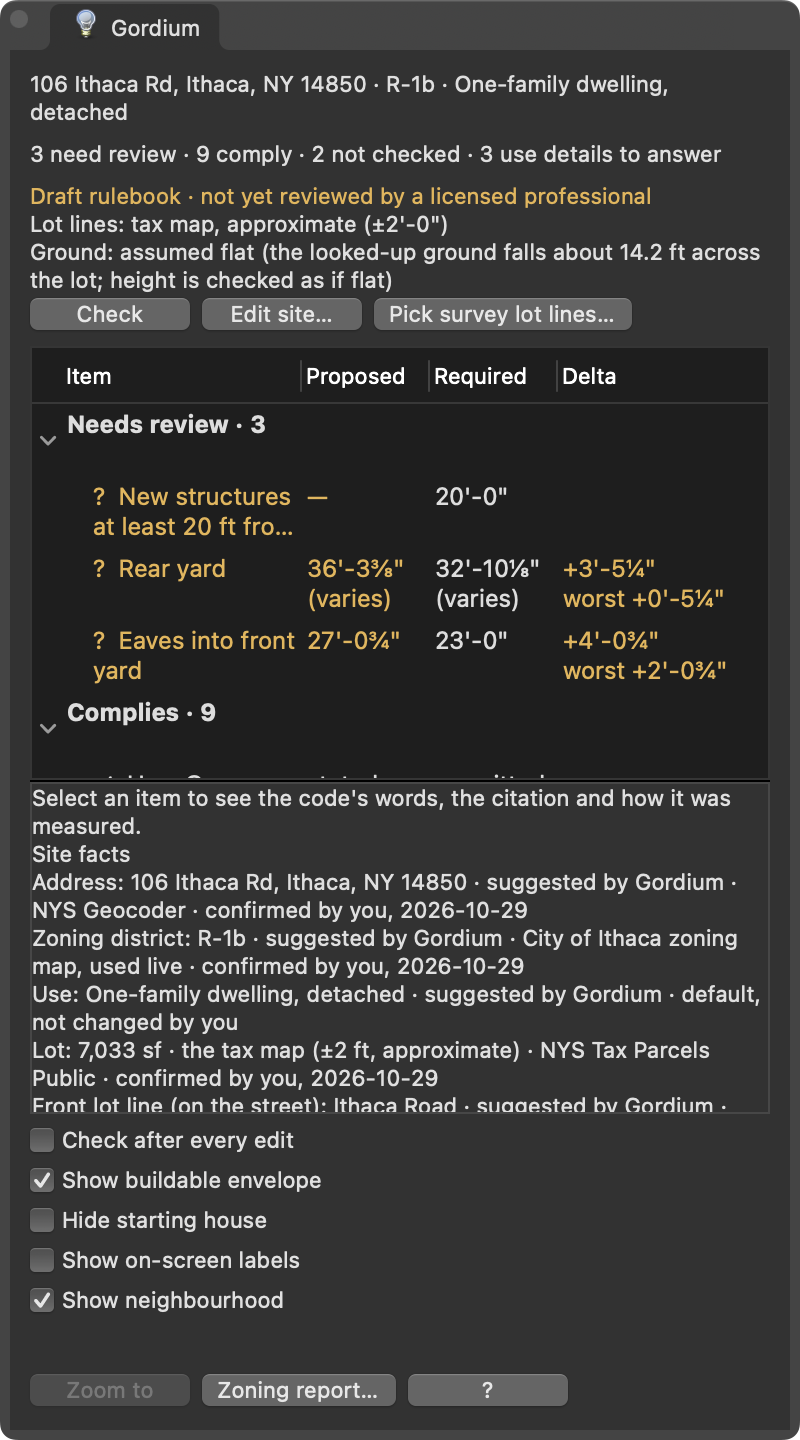
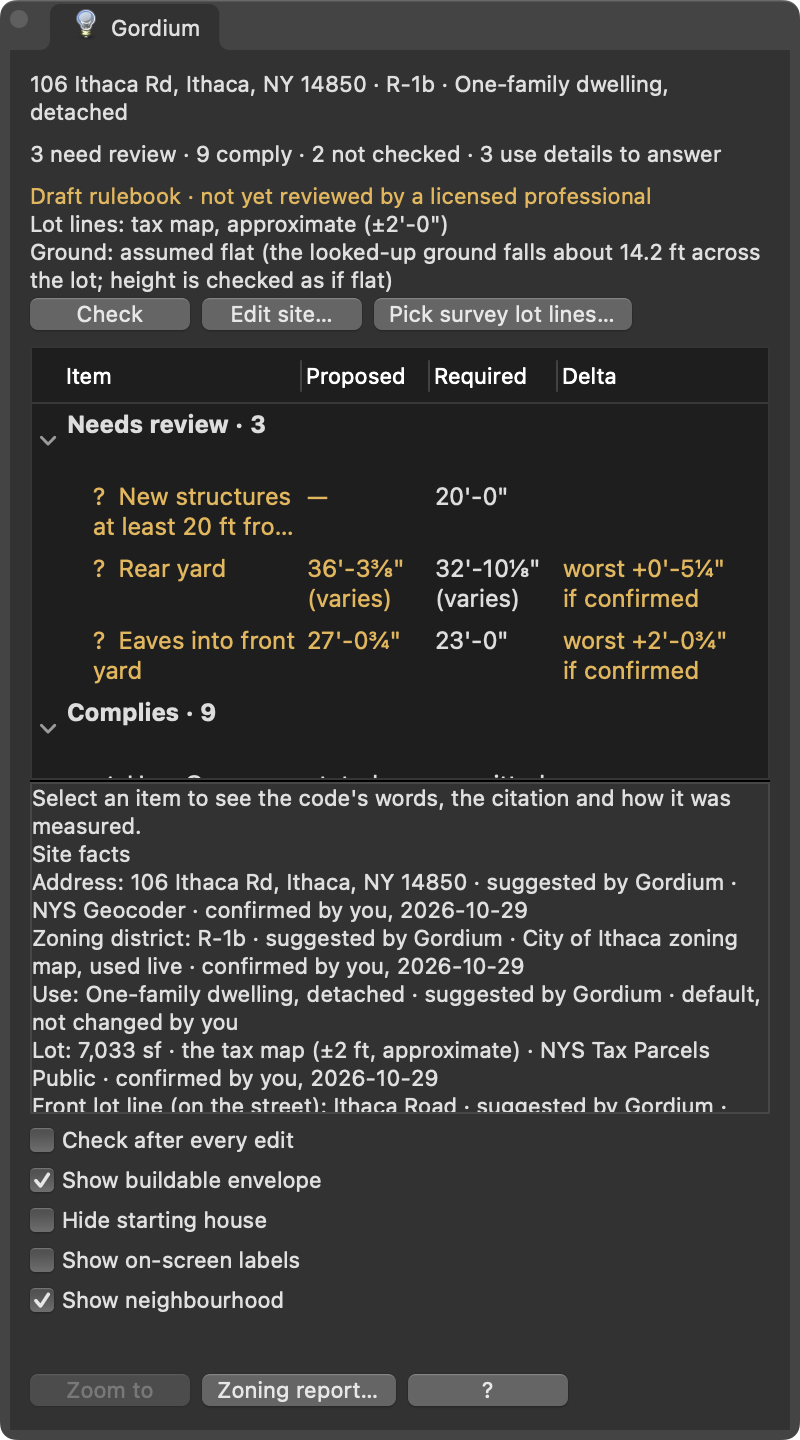
test: the panel in Rhino 8 at the round-1 fix: rows in review read their certain room "if confirmed"

Changed region(s): [[0.6875, 0.375, 0.9062, 0.4688]]

diff --git a/docs/evidence/plain-panel-words/README.md b/docs/evidence/plain-panel-words/README.md
@@ -4,12 +4,13 @@
 **For:** reviewers and engineers.\
 **Kept current by:** never (a dated record).
 
-Run in Ben's Rhino 8 on 2026-10-29, from extracted copies: main at ad164beb and this branch at 1fa72c09. The script looks up 106 Ithaca Rd (R-1b, tax-map lot lines ±2 ft), draws the starting house, writes "Cancelled: nothing changed." as an earlier button would, then presses Check. It records every list cell, whether the cell fits its column, and the last lines of Rhino's command history.
+Run in Ben's Rhino 8 on 2026-10-29, from extracted copies: main at ad164beb and this branch at 1fa72c09 (the command history and the rows that comply) and 62950a79 (the rows in review, after review round 1's fix to the list's short Delta). The script looks up 106 Ithaca Rd (R-1b, tax-map lot lines ±2 ft), draws the starting house, writes "Cancelled: nothing changed." as an earlier button would, then presses Check. It records every list cell, whether the cell fits its column, and the last lines of Rhino's command history.
 
 | File | What it shows |
 |---|---|
 | `before_main_needs_review.png`, `before_main_complies.png` | Main: the rear yard shows a range in both Proposed and Required. Delta shows only the worst case ("≥ +0'-5¼" if confirmed", "≥ +357 sf"). |
-| `after_needs_review.png`, `after_complies.png` | This branch: the rear yard shows its tightest pair ("36'-3⅜" (varies)" against "32'-10⅛" (varies)"). Delta shows the margin as drawn, then the worst case if the tax-map lines are 2 ft off ("+1,033 sf / worst +357 sf"). |
+| `after_needs_review.png` | This branch at 62950a79: the rear yard shows its tightest pair ("36'-3⅜" (varies)" against "32'-10⅛" (varies)"). A row in review with room under every reading shows its certain room "if confirmed" ("worst +0'-5¼" / if confirmed"), never a bare "+". |
+| `after_complies.png` | This branch at 1fa72c09: a row that complies shows the margin as drawn, then the worst case if the tax-map lines are 2 ft off ("+1,033 sf / worst +357 sf"). These cells are the same at 62950a79 (`after_out.json`). |
 | `before_main_out.json` | Main: every list cell. (On main, Check writes nothing to the command line, so the last Gordium line stays "Gordium: Cancelled: nothing changed.".) |
-| `after_out.json` | This branch: every list cell, none cut short (`cut` all false for the Proposed, Required and Delta columns). Its `command_line_last` was read inside the run script, before Rhino's history window filled in, so it does not show Check's line yet. |
-| `after_command_history.json` | This branch: Rhino's command history read by a second script after the run. It ends "Gordium: Cancelled: nothing changed." then "Gordium: 3 need review · 9 comply · 2 not checked · 3 use details to answer", so Check's words are the last Gordium line. |
+| `after_out.json` | This branch at 62950a79: every list cell, none cut short (`cut` all false for the Proposed, Required and Delta columns). Its `command_line_last` was read inside the run script, before Rhino's history window filled in, so it does not show Check's line yet. |
+| `after_command_history.json` | This branch at 1fa72c09 (Check's line is unchanged since): Rhino's command history read by a second script after the run. It ends "Gordium: Cancelled: nothing changed." then "Gordium: 3 need review · 9 comply · 2 not checked · 3 use details to answer", so Check's words are the last Gordium line. |
